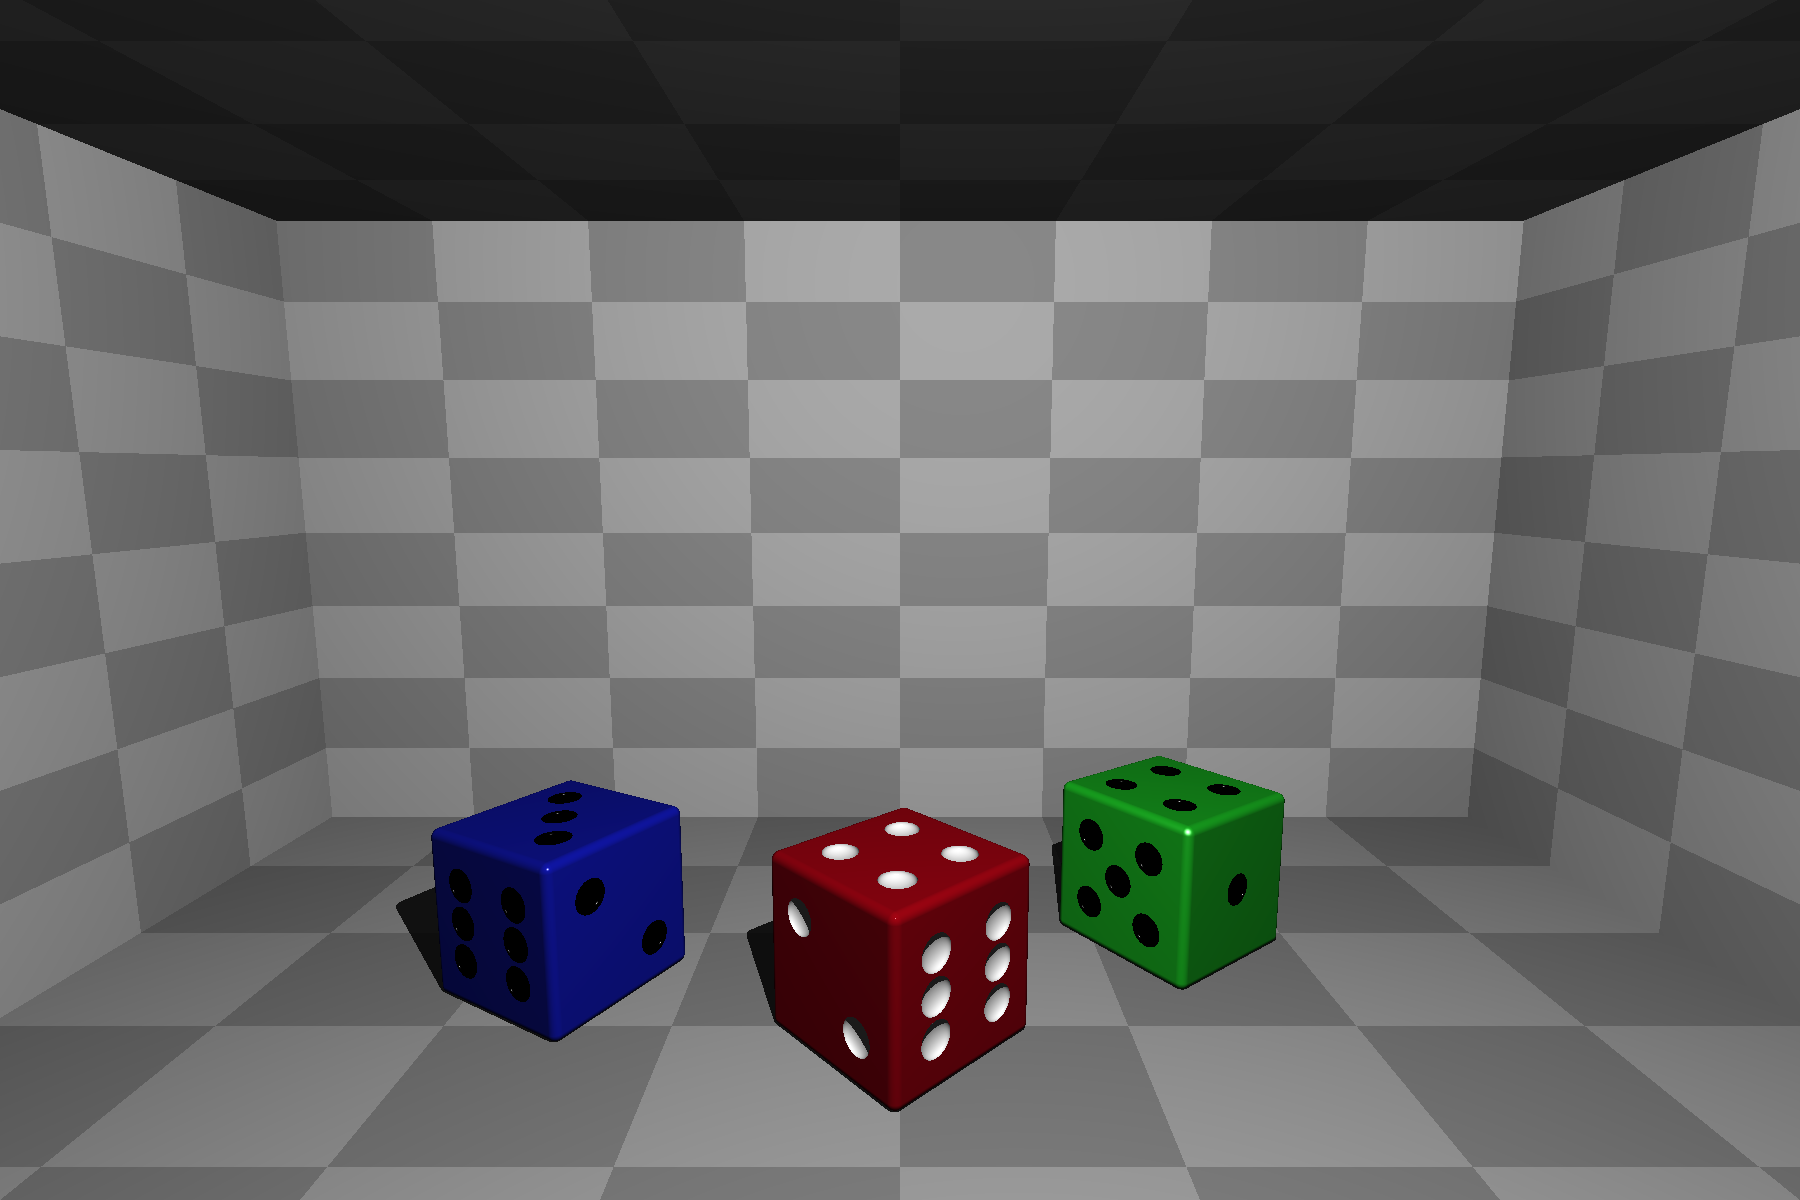
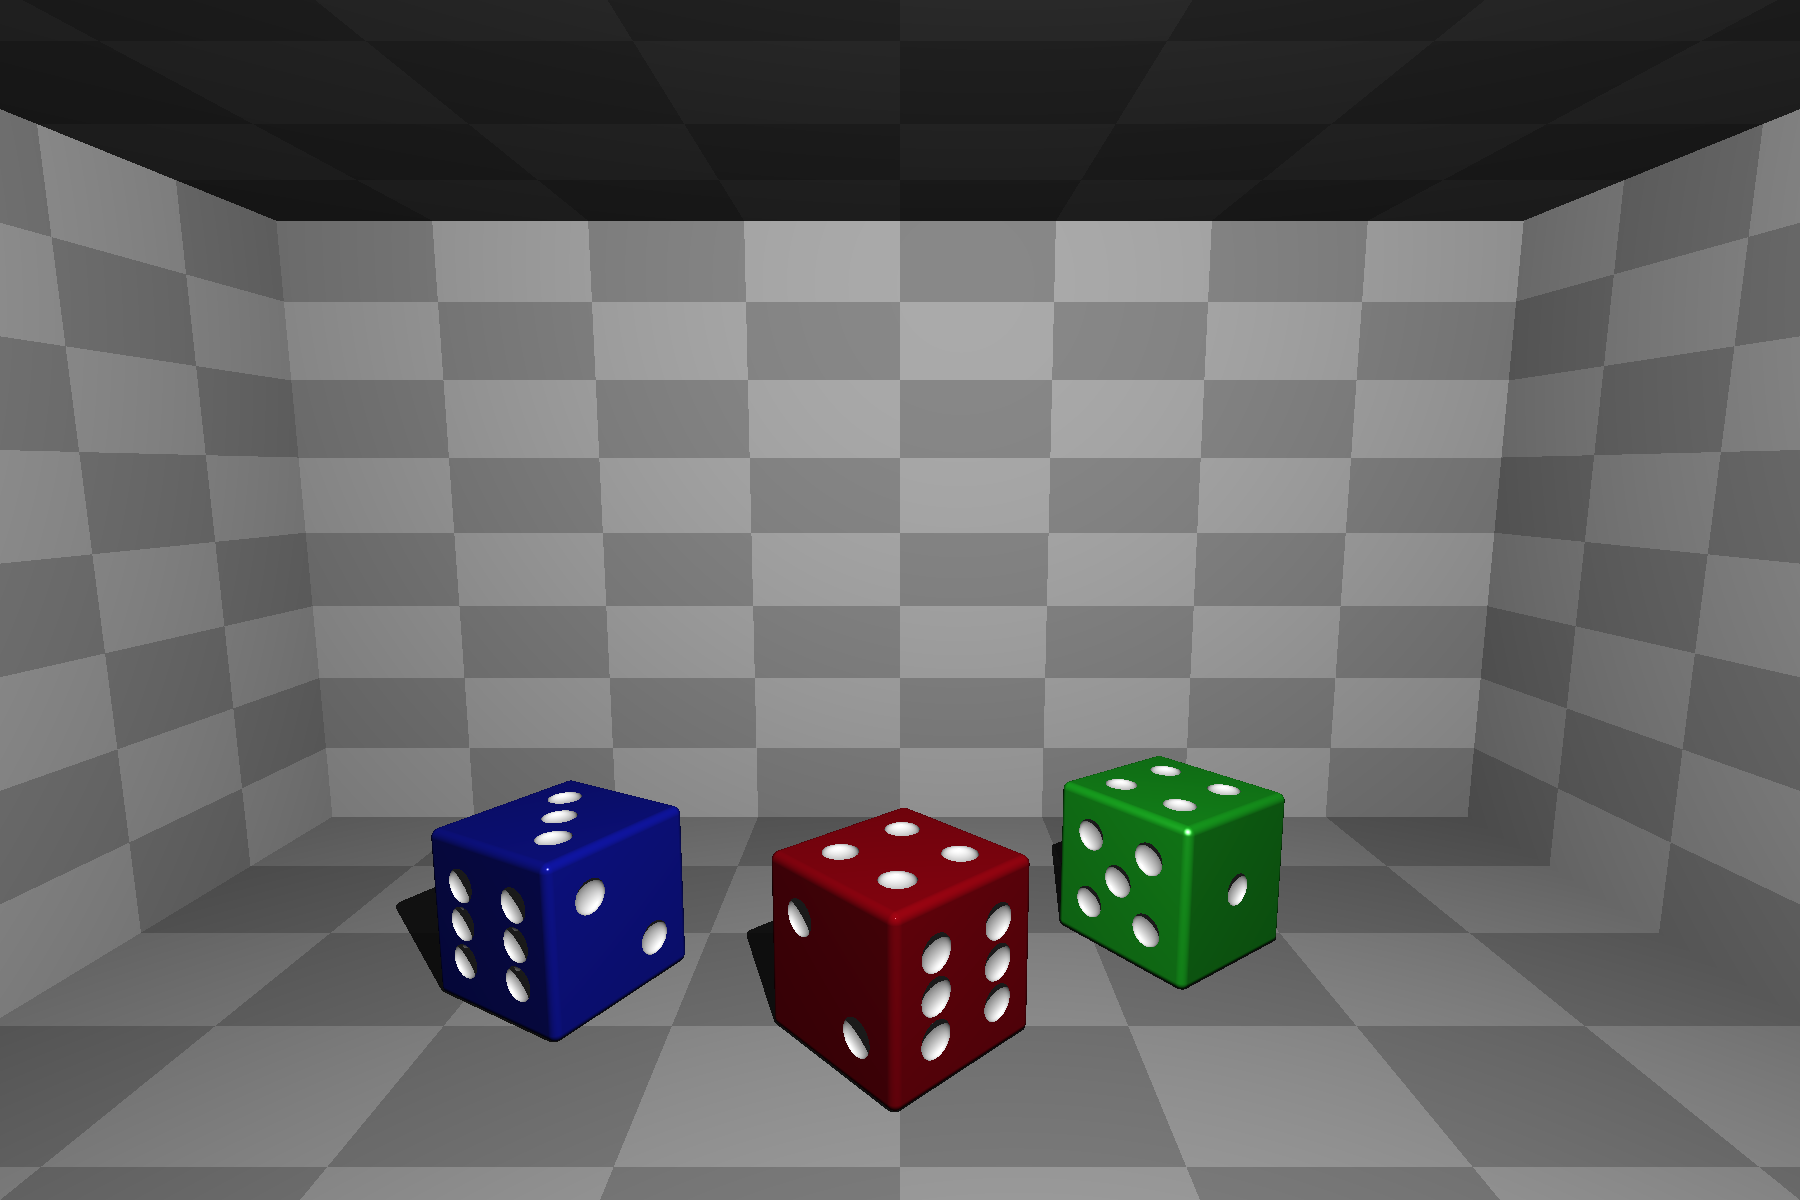
Antialiasing (#34)
* AA: Very basic blur antialiasing.

* AA: Cleaned up code and added various antialiasing methods.

* AA: Adding samples.

diff --git a/src/main/kotlin/scene/Camera.kt b/src/main/kotlin/scene/Camera.kt
@@ -8,10 +8,13 @@ import math.Tuple
 import output.Canvas
 import kotlin.math.tan
 
+import math.cartesianProduct
+
+
 // Map a 3D scene onto a 2D canvas.
-class Camera(private val hSize: Int,
-             private val vSize: Int,
-             fov: Number,
+class Camera(internal val hSize: Int,
+             internal val vSize: Int,
+             internal val fov: Number,
              internal val transformation: Matrix = Matrix.I) {
     init {
         if (!transformation.isTransformation())
@@ -46,13 +49,76 @@ class Camera(private val hSize: Int,
 
     // Render the world with the camera.
     // Computation is parallelized.
-    fun render(world: World): Canvas {
-        val image = Canvas(hSize, vSize)
-        (0 until vSize).forEach { y ->
-            (0 until hSize).toList().stream().forEach { x ->
-                val ray = rayForPixel(x, y)
+    fun render(world: World, antialiasing: AntiAliasing = NoAntiAliasing()): Canvas =
+        antialiasing.render(world, this)
+}
+
+abstract class AntiAliasing {
+    abstract fun render(world: World, camera: Camera): Canvas
+}
+
+
+class NoAntiAliasing: AntiAliasing() {
+    override fun render(world: World, camera: Camera): Canvas {
+        val image = Canvas(camera.hSize, camera.vSize)
+        (0 until camera.vSize).forEach { y ->
+            (0 until camera.hSize).toList().parallelStream().forEach { x ->
+                val ray = camera.rayForPixel(x, y)
                 val color = world.colorAt(ray)
                 image[x, y] = color
+            }
+        }
+
+        return image
+    }
+}
+
+class BlurAntiAliasing: AntiAliasing() {
+    override fun render(world: World, camera: Camera): Canvas {
+        val originalImage  = NoAntiAliasing().render(world, camera)
+
+        val image = Canvas(camera.hSize, camera.vSize)
+        (0 until camera.vSize).forEach { y ->
+            (0 until camera.hSize).toList().parallelStream().forEach { x ->
+                // Determine the pixels for this component.
+                val offsets1D = listOf(-1, 0, 1)
+                val pixels = offsets1D.cartesianProduct(offsets1D).map { (dx, dy) ->
+                    x + dx to y + dy
+                }.filter { (px, py) -> px in (0 until camera.hSize) && py in (0 until camera.vSize) }
+
+                image[x, y] = pixels.map { (px, py) ->
+                    originalImage[px, py]
+                }.reduce { c1, c2 -> c1 + c2} / pixels.size
+            }
+        }
+        return image
+    }
+}
+
+class SuperScaleAntiAliasing(private val factor: Int): AntiAliasing() {
+    override fun render(world: World, camera: Camera): Canvas {
+        // Make a super camera to capture the larger image.
+        val superCamera = Camera(
+            factor * camera.hSize,
+            factor * camera.vSize,
+            camera.fov,
+            camera.transformation
+        )
+
+        // Get the larger image.
+        val largerImage = NoAntiAliasing().render(world, superCamera)
+
+        // Shrink it down.
+        val deltas1D = (0 until factor).toList()
+        val deltas = deltas1D.cartesianProduct(deltas1D)
+
+        // Each factor x factor square of pixels shrinks down to a single pixel.
+        val factor2 = factor * factor
+        val image = Canvas(camera.hSize, camera.vSize)
+        (0 until camera.vSize).forEach { y ->
+            (0 until camera.hSize).toList().parallelStream().forEach { x ->
+                val pixels = deltas.map { (dx, dy) -> largerImage[factor * x + dx, factor * y + dy] }
+                image[x, y] = pixels.reduce { c1, c2 -> c1 + c2 } / factor2
             }
         }
         return image

diff --git a/src/main/kotlin/apps/die2.kt b/src/main/kotlin/apps/die2.kt
@@ -8,7 +8,9 @@ import math.Color
 import math.Matrix
 import math.Tuple
 import pattern.CheckerPattern
+import scene.BlurAntiAliasing
 import scene.Camera
+import scene.SuperScaleAntiAliasing
 import scene.World
 import shapes.Cube
 import shapes.die6
@@ -25,17 +27,19 @@ fun main() {
         Cube(transform, material)
     }
 
+    val pipMaterial = List(6) { Material(Color.WHITE) }
+
     val material1 = Material(Color.fromHex(0x1016AA), shininess = 50.0)
-    val die1 = die6(faceMaterial = List(6) { material1 }, frameMaterial = material1)
+    val die1 = die6(faceMaterial = List(6) { material1 }, frameMaterial = material1, pipMaterial = pipMaterial)
         .withTransformation(Matrix.translate(-4, -4, 3) * Matrix.rotateY(PI / 6))
 
     val material2 = Material(Color.fromHex(0xA20412), shininess = 500.0)
-    val die2 = die6(faceMaterial = List(6) { material2}, frameMaterial = material2, pipMaterial = List(6) {Material(Color.WHITE)})
+    val die2 = die6(faceMaterial = List(6) { material2}, frameMaterial = material2, pipMaterial= pipMaterial)
         .withTransformation(Matrix.translate(0, -4, 2) * Matrix.rotateZ(PI) *
                 Matrix.rotateY(PI/4.2))
 
     val material3 = Material(Color.fromHex(0x1AB422), shininess = 5.0)
-    val die3 = die6(faceMaterial = List(6) { material3 }, frameMaterial = material3)
+    val die3 = die6(faceMaterial = List(6) { material3 }, frameMaterial = material3, pipMaterial = pipMaterial)
         .withTransformation(Matrix.translate(3.5, -4, 4) * Matrix.rotateZ(PI) *
             Matrix.rotateY(PI) * Matrix.rotateY(PI/5))
 

diff --git a/src/main/kotlin/math/Shared.kt b/src/main/kotlin/math/Shared.kt
@@ -125,6 +125,6 @@ fun durandKernerSolver(coefficients: List<Double>,
     return roots.map(::roundComplex)
 }
 
-fun <T, U> Collection<T>.cartesianProduct(other: Collection<U>): List<Pair<T, U>> {
+fun <T, U> Collection<T>.cartesianProduct(other: Collection<U>): Collection<Pair<T, U>> {
     return flatMap { lhsElem -> other.map { rhsElem -> lhsElem to rhsElem } }
 }
